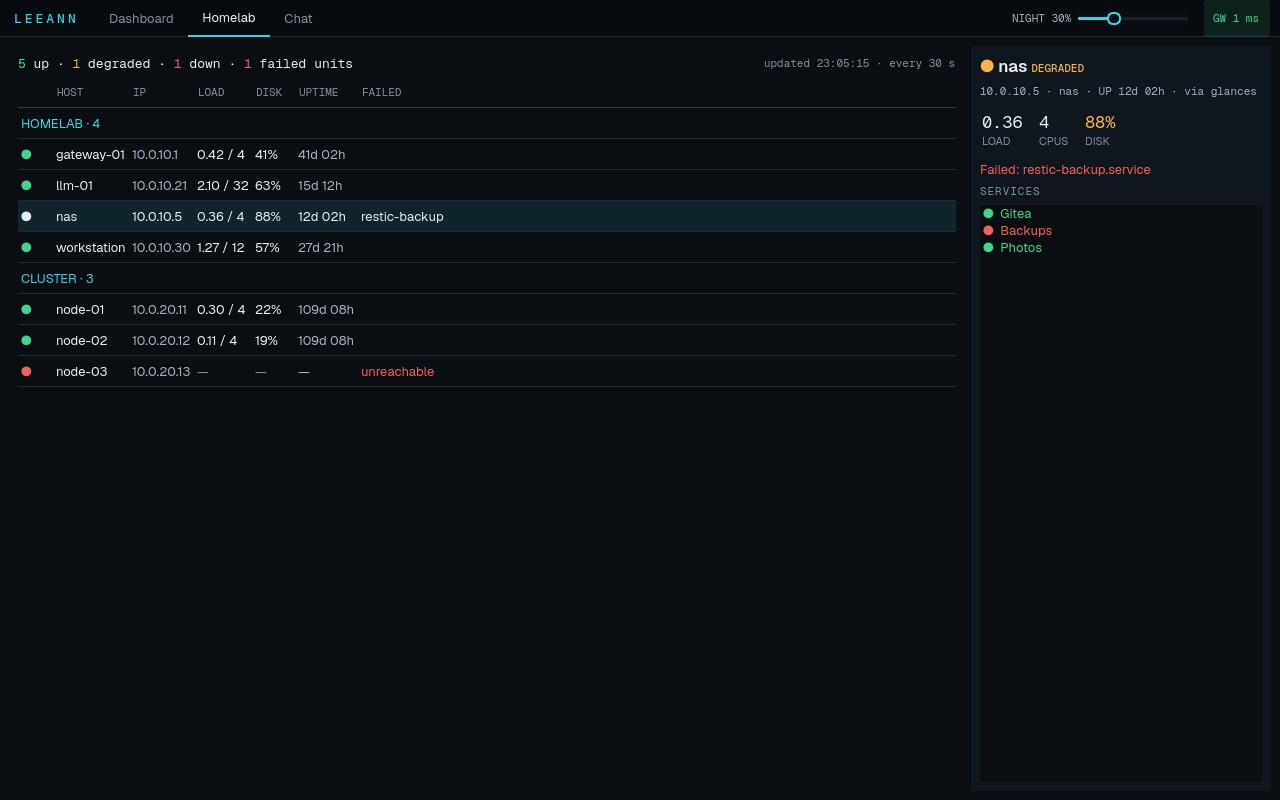
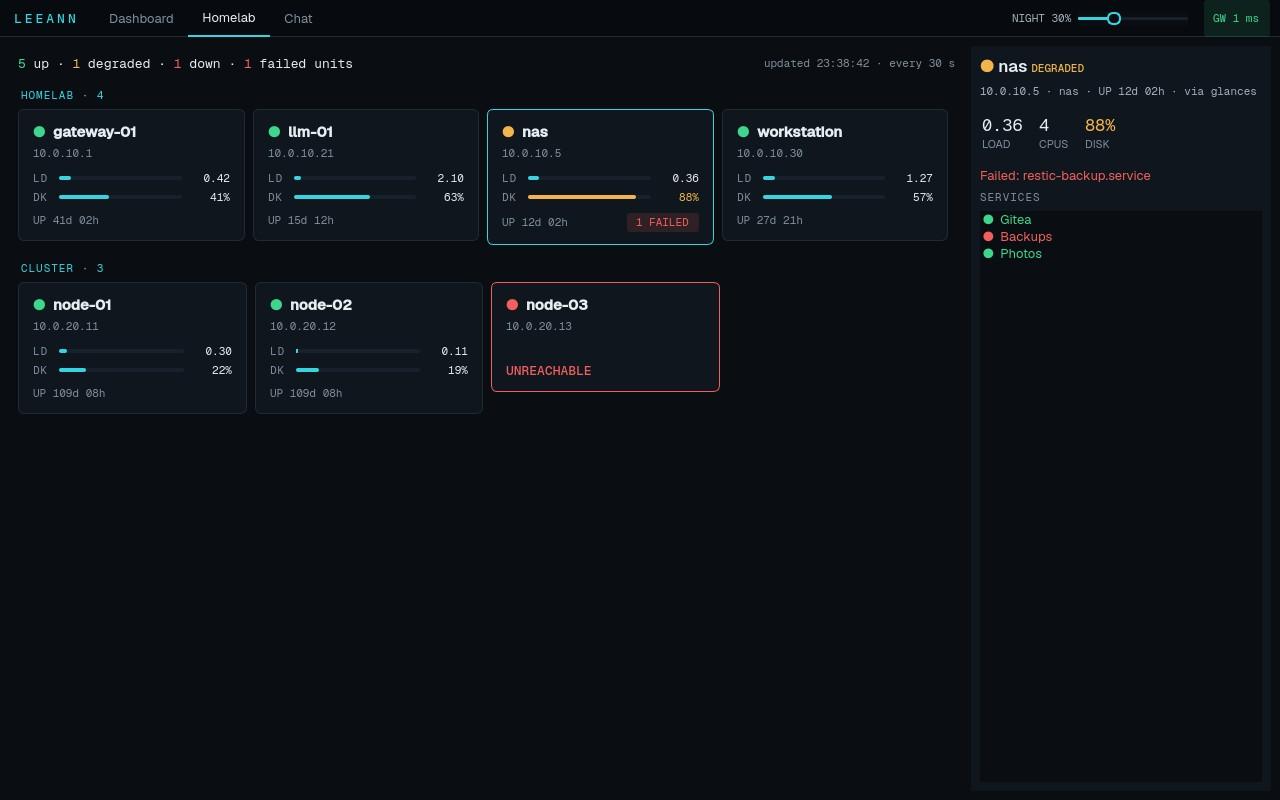
Desktop homelab screenshot: host cards
Claude-Session: https://claude.ai/code/session_01AK6Yh4LJFA9tWnwojQBdAV

diff --git a/README.md b/README.md
@@ -14,7 +14,7 @@
 
 | Desktop homelab | Desktop chat |
 |---|---|
-| ![Host table with a detail panel](screenshots/desktop-homelab.jpg) | ![Chat with markdown answers](screenshots/desktop-chat.jpg) |
+| ![Host cards with a detail panel](screenshots/desktop-homelab.jpg) | ![Chat with markdown answers](screenshots/desktop-chat.jpg) |
 
 ## Features
 
